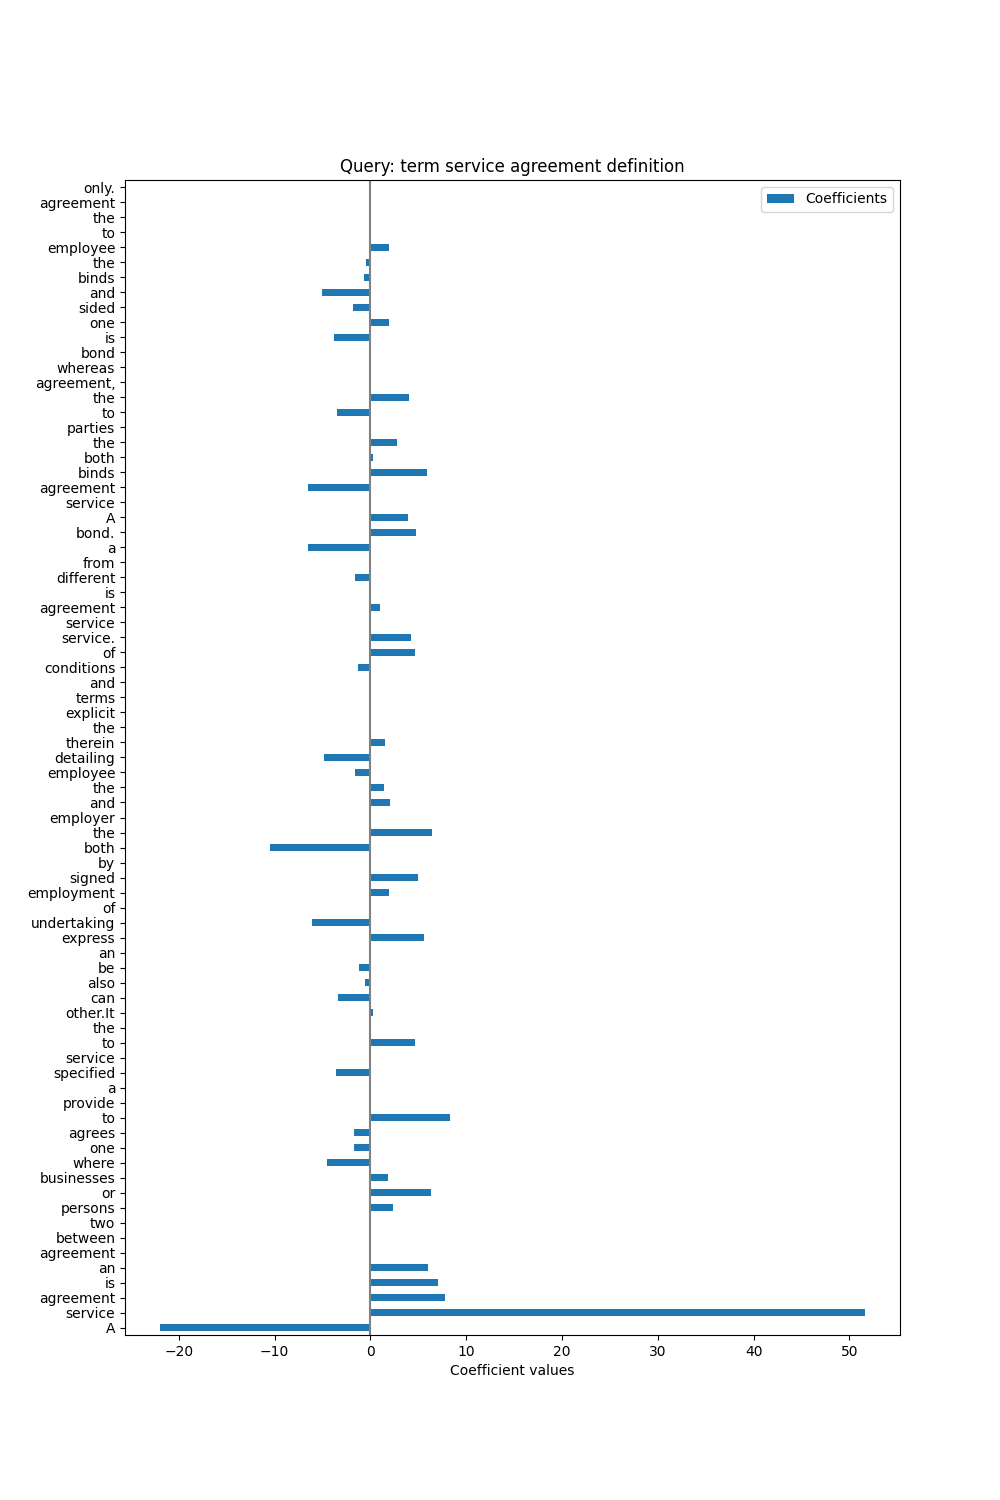
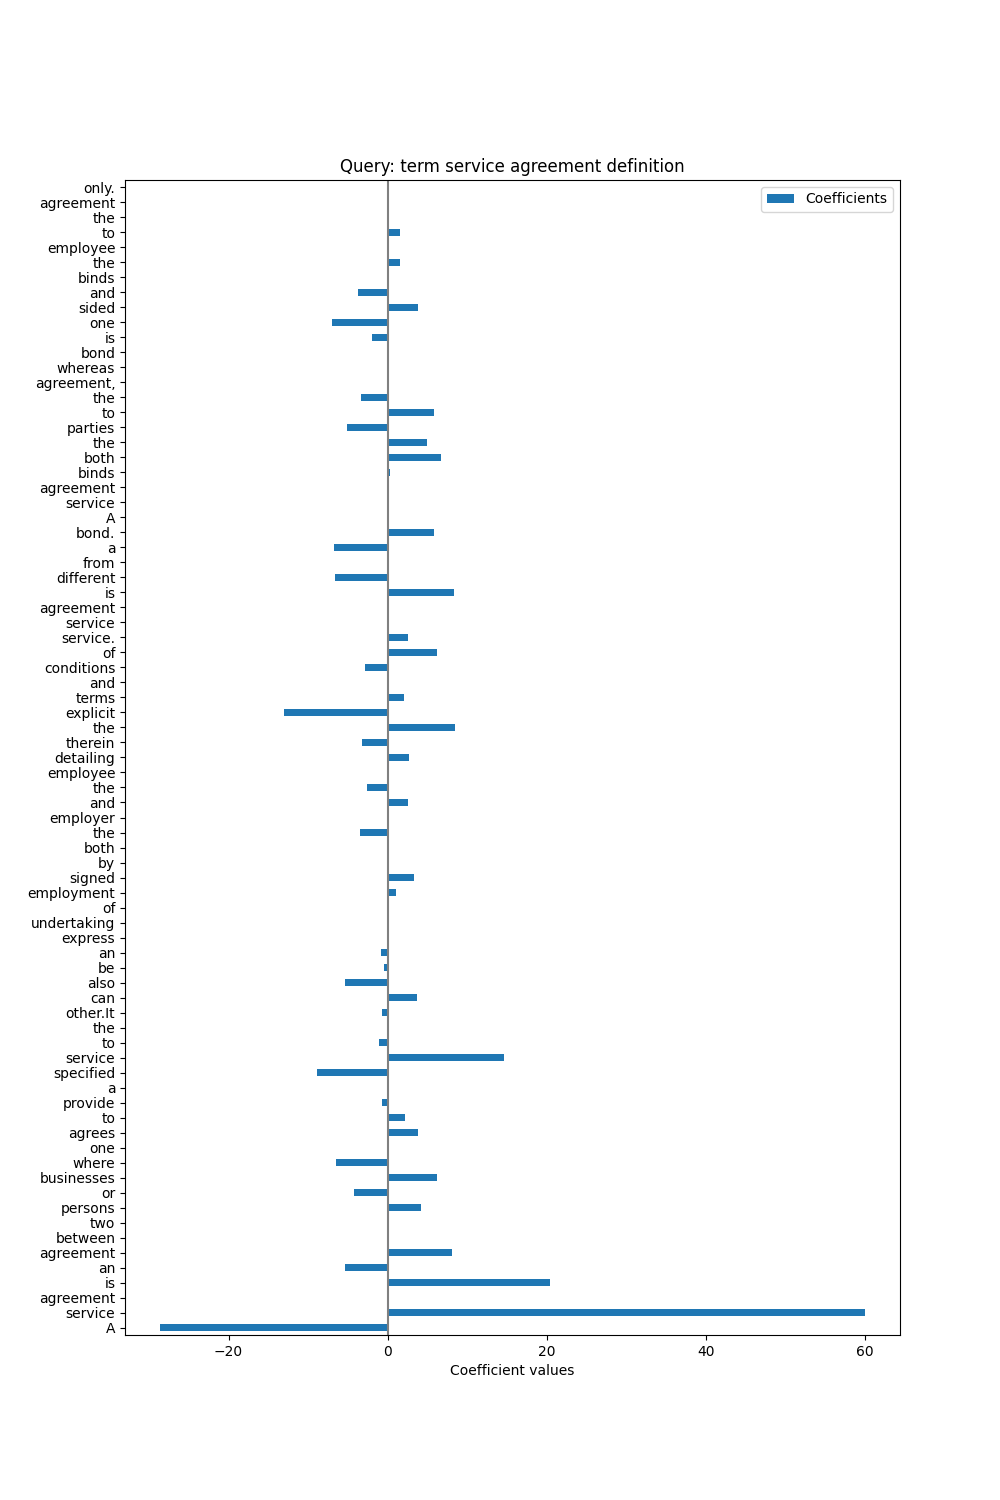
Update lirme

Changed region(s): [[0.279, 0.1533, 0.558, 0.8893], [0.837, 0.8893, 0.868, 0.92]]

diff --git a/results/document_based/monot5_unbiased/query_57_r_0.html b/results/document_based/monot5_unbiased/query_57_r_0.html
@@ -1,1 +1,1 @@
-<html> <head><title>Docno: 8344322</title></head> <body> <h2> Query: term service agreement definition - Docno: 8344322 </h2> <br><span style="background-color: rgb(255  0  0 / 42%);">A</span> <span style="background-color: rgb(0  255  0 / 100%);">service</span> <span style="background-color: rgb(0  255  0 / 15%);">agreement</span> <span style="background-color: rgb(0  255  0 / 13%);">is</span> <span style="background-color: rgb(0  255  0 / 11%);">an</span> <span style="background-color: rgb(255  0  0 / 0%);">agreement</span> <span style="background-color: rgb(255  0  0 / 0%);">between</span> <span style="background-color: rgb(255  0  0 / 0%);">two</span> <span style="background-color: rgb(0  255  0 / 4%);">persons</span> <span style="background-color: rgb(0  255  0 / 12%);">or</span> <span style="background-color: rgb(0  255  0 / 3%);">businesses</span> <span style="background-color: rgb(255  0  0 / 8%);">where</span> <span style="background-color: rgb(255  0  0 / 3%);">one</span> <span style="background-color: rgb(255  0  0 / 3%);">agrees</span> <span style="background-color: rgb(0  255  0 / 16%);">to</span> <span style="background-color: rgb(255  0  0 / 0%);">provide</span> <span style="background-color: rgb(255  0  0 / 0%);">a</span> <span style="background-color: rgb(255  0  0 / 7%);">specified</span> <span style="background-color: rgb(255  0  0 / 0%);">service</span> <span style="background-color: rgb(0  255  0 / 8%);">to</span> <span style="background-color: rgb(255  0  0 / 0%);">the</span> <span style="background-color: rgb(0  255  0 / 0%);">other.It</span> <span style="background-color: rgb(255  0  0 / 6%);">can</span> <span style="background-color: rgb(255  0  0 / 1%);">also</span> <span style="background-color: rgb(255  0  0 / 2%);">be</span> <span style="background-color: rgb(255  0  0 / 0%);">an</span> <span style="background-color: rgb(0  255  0 / 10%);">express</span> <span style="background-color: rgb(255  0  0 / 11%);">undertaking</span> <span style="background-color: rgb(255  0  0 / 0%);">of</span> <span style="background-color: rgb(0  255  0 / 3%);">employment</span> <span style="background-color: rgb(0  255  0 / 9%);">signed</span> <span style="background-color: rgb(255  0  0 / 0%);">by</span> <span style="background-color: rgb(255  0  0 / 20%);">both</span> <span style="background-color: rgb(0  255  0 / 12%);">the</span> <span style="background-color: rgb(255  0  0 / 0%);">employer</span> <span style="background-color: rgb(0  255  0 / 4%);">and</span> <span style="background-color: rgb(0  255  0 / 2%);">the</span> <span style="background-color: rgb(255  0  0 / 3%);">employee</span> <span style="background-color: rgb(255  0  0 / 9%);">detailing</span> <span style="background-color: rgb(0  255  0 / 2%);">therein</span> <span style="background-color: rgb(255  0  0 / 0%);">the</span> <span style="background-color: rgb(255  0  0 / 0%);">explicit</span> <span style="background-color: rgb(255  0  0 / 0%);">terms</span> <span style="background-color: rgb(255  0  0 / 0%);">and</span> <span style="background-color: rgb(255  0  0 / 2%);">conditions</span> <span style="background-color: rgb(0  255  0 / 9%);">of</span> <span style="background-color: rgb(0  255  0 / 8%);">service.</span> <span style="background-color: rgb(255  0  0 / 0%);">service</span> <span style="background-color: rgb(0  255  0 / 2%);">agreement</span> <span style="background-color: rgb(255  0  0 / 0%);">is</span> <span style="background-color: rgb(255  0  0 / 3%);">different</span> <span style="background-color: rgb(255  0  0 / 0%);">from</span> <span style="background-color: rgb(255  0  0 / 12%);">a</span> <span style="background-color: rgb(0  255  0 / 9%);">bond.</span> <span style="background-color: rgb(0  255  0 / 7%);">A</span> <span style="background-color: rgb(255  0  0 / 0%);">service</span> <span style="background-color: rgb(255  0  0 / 12%);">agreement</span> <span style="background-color: rgb(0  255  0 / 11%);">binds</span> <span style="background-color: rgb(0  255  0 / 0%);">both</span> <span style="background-color: rgb(0  255  0 / 5%);">the</span> <span style="background-color: rgb(255  0  0 / 0%);">parties</span> <span style="background-color: rgb(255  0  0 / 6%);">to</span> <span style="background-color: rgb(0  255  0 / 7%);">the</span> <span style="background-color: rgb(255  0  0 / 0%);">agreement,</span> <span style="background-color: rgb(255  0  0 / 0%);">whereas</span> <span style="background-color: rgb(255  0  0 / 0%);">bond</span> <span style="background-color: rgb(255  0  0 / 7%);">is</span> <span style="background-color: rgb(0  255  0 / 3%);">one</span> <span style="background-color: rgb(255  0  0 / 3%);">sided</span> <span style="background-color: rgb(255  0  0 / 9%);">and</span> <span style="background-color: rgb(255  0  0 / 1%);">binds</span> <span style="background-color: rgb(255  0  0 / 0%);">the</span> <span style="background-color: rgb(0  255  0 / 3%);">employee</span> <span style="background-color: rgb(255  0  0 / 0%);">to</span> <span style="background-color: rgb(255  0  0 / 0%);">the</span> <span style="background-color: rgb(255  0  0 / 0%);">agreement</span> <span style="background-color: rgb(255  0  0 / 0%);">only.</span> </body> </html>
+<html> <head><title>Docno: 8344322</title></head> <body> <h2> Query: term service agreement definition - Docno: 8344322 </h2> <br><span style="background-color: rgb(255  0  0 / 47%);">A</span> <span style="background-color: rgb(0  255  0 / 100%);">service</span> <span style="background-color: rgb(255  0  0 / 0%);">agreement</span> <span style="background-color: rgb(0  255  0 / 33%);">is</span> <span style="background-color: rgb(255  0  0 / 8%);">an</span> <span style="background-color: rgb(0  255  0 / 13%);">agreement</span> <span style="background-color: rgb(0  255  0 / 0%);">between</span> <span style="background-color: rgb(255  0  0 / 0%);">two</span> <span style="background-color: rgb(0  255  0 / 6%);">persons</span> <span style="background-color: rgb(255  0  0 / 6%);">or</span> <span style="background-color: rgb(0  255  0 / 10%);">businesses</span> <span style="background-color: rgb(255  0  0 / 10%);">where</span> <span style="background-color: rgb(255  0  0 / 0%);">one</span> <span style="background-color: rgb(0  255  0 / 6%);">agrees</span> <span style="background-color: rgb(0  255  0 / 3%);">to</span> <span style="background-color: rgb(255  0  0 / 1%);">provide</span> <span style="background-color: rgb(255  0  0 / 0%);">a</span> <span style="background-color: rgb(255  0  0 / 14%);">specified</span> <span style="background-color: rgb(0  255  0 / 24%);">service</span> <span style="background-color: rgb(255  0  0 / 1%);">to</span> <span style="background-color: rgb(255  0  0 / 0%);">the</span> <span style="background-color: rgb(255  0  0 / 1%);">other.It</span> <span style="background-color: rgb(0  255  0 / 6%);">can</span> <span style="background-color: rgb(255  0  0 / 8%);">also</span> <span style="background-color: rgb(255  0  0 / 0%);">be</span> <span style="background-color: rgb(255  0  0 / 1%);">an</span> <span style="background-color: rgb(255  0  0 / 0%);">express</span> <span style="background-color: rgb(255  0  0 / 0%);">undertaking</span> <span style="background-color: rgb(255  0  0 / 0%);">of</span> <span style="background-color: rgb(0  255  0 / 1%);">employment</span> <span style="background-color: rgb(0  255  0 / 5%);">signed</span> <span style="background-color: rgb(255  0  0 / 0%);">by</span> <span style="background-color: rgb(255  0  0 / 0%);">both</span> <span style="background-color: rgb(255  0  0 / 5%);">the</span> <span style="background-color: rgb(255  0  0 / 0%);">employer</span> <span style="background-color: rgb(0  255  0 / 4%);">and</span> <span style="background-color: rgb(255  0  0 / 4%);">the</span> <span style="background-color: rgb(255  0  0 / 0%);">employee</span> <span style="background-color: rgb(0  255  0 / 4%);">detailing</span> <span style="background-color: rgb(255  0  0 / 5%);">therein</span> <span style="background-color: rgb(0  255  0 / 14%);">the</span> <span style="background-color: rgb(255  0  0 / 21%);">explicit</span> <span style="background-color: rgb(0  255  0 / 3%);">terms</span> <span style="background-color: rgb(255  0  0 / 0%);">and</span> <span style="background-color: rgb(255  0  0 / 4%);">conditions</span> <span style="background-color: rgb(0  255  0 / 10%);">of</span> <span style="background-color: rgb(0  255  0 / 4%);">service.</span> <span style="background-color: rgb(255  0  0 / 0%);">service</span> <span style="background-color: rgb(255  0  0 / 0%);">agreement</span> <span style="background-color: rgb(0  255  0 / 13%);">is</span> <span style="background-color: rgb(255  0  0 / 11%);">different</span> <span style="background-color: rgb(255  0  0 / 0%);">from</span> <span style="background-color: rgb(255  0  0 / 11%);">a</span> <span style="background-color: rgb(0  255  0 / 9%);">bond.</span> <span style="background-color: rgb(255  0  0 / 0%);">A</span> <span style="background-color: rgb(0  255  0 / 0%);">service</span> <span style="background-color: rgb(255  0  0 / 0%);">agreement</span> <span style="background-color: rgb(0  255  0 / 0%);">binds</span> <span style="background-color: rgb(0  255  0 / 11%);">both</span> <span style="background-color: rgb(0  255  0 / 8%);">the</span> <span style="background-color: rgb(255  0  0 / 8%);">parties</span> <span style="background-color: rgb(0  255  0 / 9%);">to</span> <span style="background-color: rgb(255  0  0 / 5%);">the</span> <span style="background-color: rgb(255  0  0 / 0%);">agreement,</span> <span style="background-color: rgb(255  0  0 / 0%);">whereas</span> <span style="background-color: rgb(255  0  0 / 0%);">bond</span> <span style="background-color: rgb(255  0  0 / 3%);">is</span> <span style="background-color: rgb(255  0  0 / 11%);">one</span> <span style="background-color: rgb(0  255  0 / 6%);">sided</span> <span style="background-color: rgb(255  0  0 / 6%);">and</span> <span style="background-color: rgb(255  0  0 / 0%);">binds</span> <span style="background-color: rgb(0  255  0 / 2%);">the</span> <span style="background-color: rgb(255  0  0 / 0%);">employee</span> <span style="background-color: rgb(0  255  0 / 2%);">to</span> <span style="background-color: rgb(255  0  0 / 0%);">the</span> <span style="background-color: rgb(255  0  0 / 0%);">agreement</span> <span style="background-color: rgb(255  0  0 / 0%);">only.</span> </body> </html>

diff --git a/src/lirme_posting_based.py b/src/lirme_posting_based.py
@@ -8,7 +8,7 @@ import re
 import json
 import math
 import random
-from run_experiments import monot5, index_msmarco_eval
+from run_experiments import monot5, index_msmarco_eval, Monot5ModelType
 import numpy as np
 from pathlib import Path
 import pyterrier as pt
@@ -27,10 +27,11 @@ class LIRME_posting:
     which means it look at all the terms and their frequency related to a document in the postings list.
     """
 
-    def __init__(self, reranker, query, document, m=200, h=0.75, chunk_size=5, v=0.1):
+    def __init__(self, reranker, query, document, monot5_v=Monot5ModelType.UNBIASED, m=200, h=0.75, chunk_size=5, v=0.1):
         self.reranker = reranker
         self.query = query
         self.document = document
+        self.monot5_v = monot5_v
         self.m = m
         self.h = h
         self.chunk_size = chunk_size
@@ -50,9 +51,19 @@ class LIRME_posting:
                           di.getPostings(doi.getDocumentEntry(i))]
 
         # Re-rank samples
-        retrieved = self.reranker.transform(temp_samples)
-        if retrieved['score'].mean() < 0:  # Monot5 gives negative values, where closer to zero is better
-            retrieved['score'] = abs(retrieved['score'] ** -1)
+        if self.reranker == 'bm25':
+            tf_idf = pt.terrier.Retriever(index, wmodel="TF_IDF")
+            retrieved = tf_idf.transform(temp_samples)
+            retrieved['docno'] = retrieved['docno'].astype(int)
+            retrieved = retrieved.sort_values(['docno'])
+        elif self.reranker == 'monot5':
+            retrieved = monot5(model=self.monot5_v).transform(temp_samples)
+            retrieved['docno'] = retrieved['docno'].astype(int)
+            retrieved = retrieved.sort_values(['docno'])
+            retrieved['score'] = abs(retrieved['score'] ** -1)  # Monot5 gives negative values, where closer to zero is better
+        else:
+            raise NotImplementedError
+
         return samples, retrieved['score'].tolist()
 
     def make_sample_text(self, new_text):
@@ -163,16 +174,16 @@ if __name__ == '__main__':
     for i, (q_ind, q) in tqdm.tqdm(enumerate(msmarco_eval_dataset.get_topics().iterrows())):
         if i == num_queries: break
         for r, (res_ind, res_d) in enumerate((bm25 % 5).search(q['query']).iterrows()):
-            lirme_inst = LIRME_posting(bm25, q, res_d, m=200, h=0.75)
+            lirme_inst = LIRME_posting('bm25', q, res_d, m=200, h=0.75)
             lirme_inst.lirme(msmarco_eval_dataset_text, index_msmarco_eval, lirme_inst.variant_of_masked_sampler, 'bm25', r)
 
     # Generate results for BM25 ranker + Monot5 reranker
     print('\nRunning LIRME for BM25 ranker + Monot5 reranker...')
-    monot5 = monot5()
-    ranker = (bm25 % 50) >> msmarco_eval_dataset_text >> monot5
+    monot5_ = monot5()
+    ranker = (bm25 % 50) >> msmarco_eval_dataset_text >> monot5_
     for i, (q_ind, q) in tqdm.tqdm(enumerate(msmarco_eval_dataset.get_topics().iterrows())):
         if i == num_queries: break
         for r, (res_ind, res_d) in enumerate((ranker % 5).search(q['query']).iterrows()):
             res_d['score'] = abs(res_d['score'] ** -1)  # Monot5 gives negative values, where closer to zero is better
-            lirme_inst = LIRME_posting(monot5, q, res_d, m=250, h=0.75)
+            lirme_inst = LIRME_posting('monot5', q, res_d, m=250, h=0.75)
             lirme_inst.lirme(msmarco_eval_dataset_text, index_msmarco_eval, lirme_inst.variant_of_masked_sampler, 'monot5_unbiased', r)

diff --git a/src/lirme_document_based.py b/src/lirme_document_based.py
@@ -7,7 +7,7 @@ See: https://doi.org/10.1145/3331184.3331377
 import json
 import math
 import random
-from run_experiments import index_msmarco_eval, monot5
+from run_experiments import index_msmarco_eval, monot5, Monot5ModelType
 import numpy as np
 from pathlib import Path
 import pyterrier as pt
@@ -24,10 +24,11 @@ class LIRME_document:
     which means it look at all the words in the document.
     """
 
-    def __init__(self, reranker, query, document, m=500, h=0.75, chunk_size=5, v=0.1):
+    def __init__(self, reranker, query, document, monot5_v=Monot5ModelType.UNBIASED, m=500, h=0.75, chunk_size=5, v=0.1):
         self.reranker = reranker
         self.query = query
         self.document = document
+        self.monot5_v = monot5_v
         self.m = m
         self.h = h
         self.chunk_size = chunk_size
@@ -35,8 +36,13 @@ class LIRME_document:
 
     def re_rank(self, temp_samples):
         # Re-rank samples
-        retrieved = self.reranker.transform(temp_samples)
-        retrieved['score'] = abs(retrieved['score'] ** -1)  # Monot5 gives negative values, where closer to zero is better
+        if self.reranker == 'monot5':
+            retrieved = monot5(model=self.monot5_v).transform(temp_samples)
+            retrieved['docno'] = retrieved['docno'].astype(int)
+            retrieved = retrieved.sort_values(['docno'])
+            retrieved['score'] = abs(retrieved['score'] ** -1)  # Monot5 gives negative values, where closer to zero is better
+        else:
+            raise NotImplementedError
         return retrieved['score'].tolist()
 
     def make_sample_text(self, new_text):
@@ -153,11 +159,11 @@ if __name__ == '__main__':
 
     # Generate results for BM25 ranker + Monot5 reranker
     print('\nRunning LIRME for BM25 ranker + Monot5 reranker...')
-    monot5 = monot5()
-    ranker = (bm25 % 50) >> msmarco_eval_dataset_text >> monot5
+    monot5_ = monot5()
+    ranker = (bm25 % 50) >> msmarco_eval_dataset_text >> monot5_
     for i, (q_ind, q) in tqdm.tqdm(enumerate(msmarco_eval_dataset.get_topics().iterrows())):
         if i == num_queries: break
         for r, (res_ind, res_d) in enumerate((ranker % 5).search(q['query']).iterrows()):
             res_d['score'] = abs(res_d['score'] ** -1)  # Monot5 gives negative values, where closer to zero is better
-            lirme_inst = LIRME_document(monot5, q, res_d, m=500, h=0.75)
+            lirme_inst = LIRME_document('monot5', q, res_d, m=500, h=0.75)
             lirme_inst.lirme(msmarco_eval_dataset_text, lirme_inst.variant_of_masked_sampler, 'monot5_unbiased', r)
